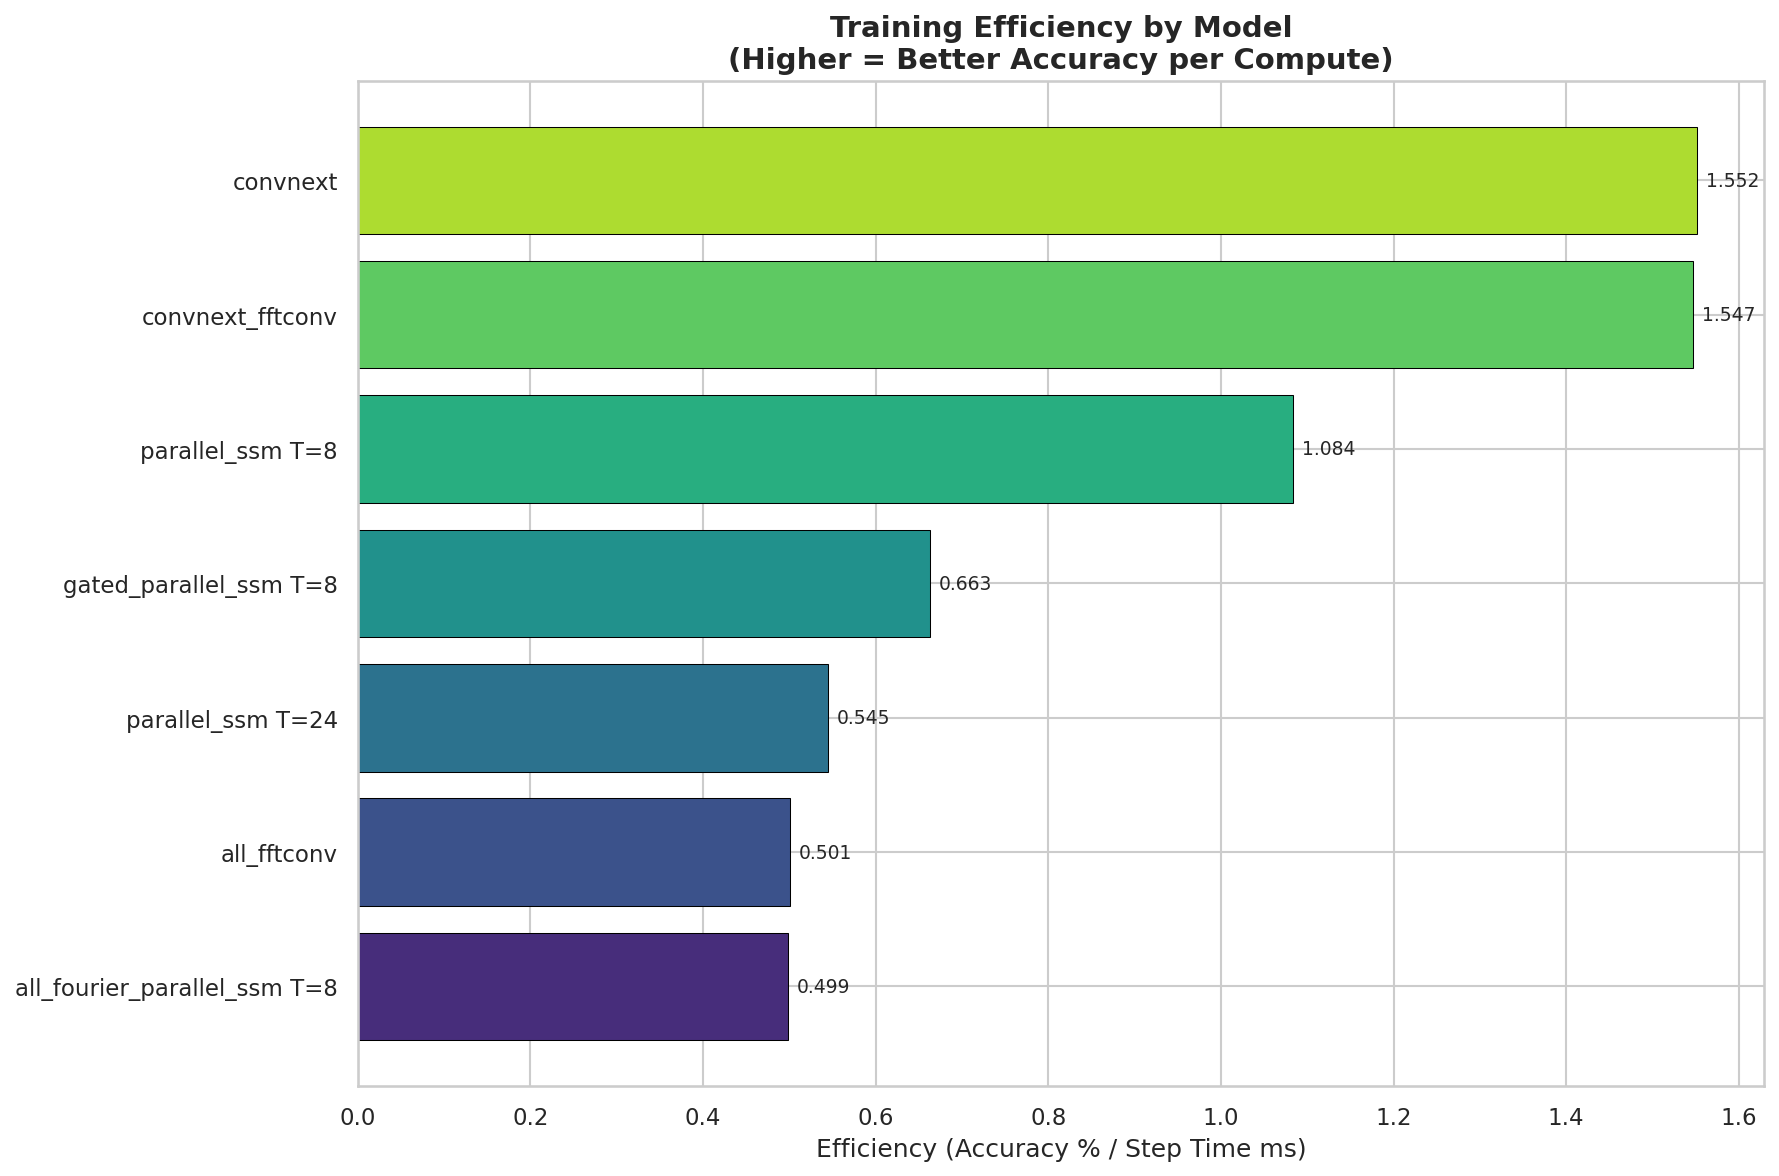
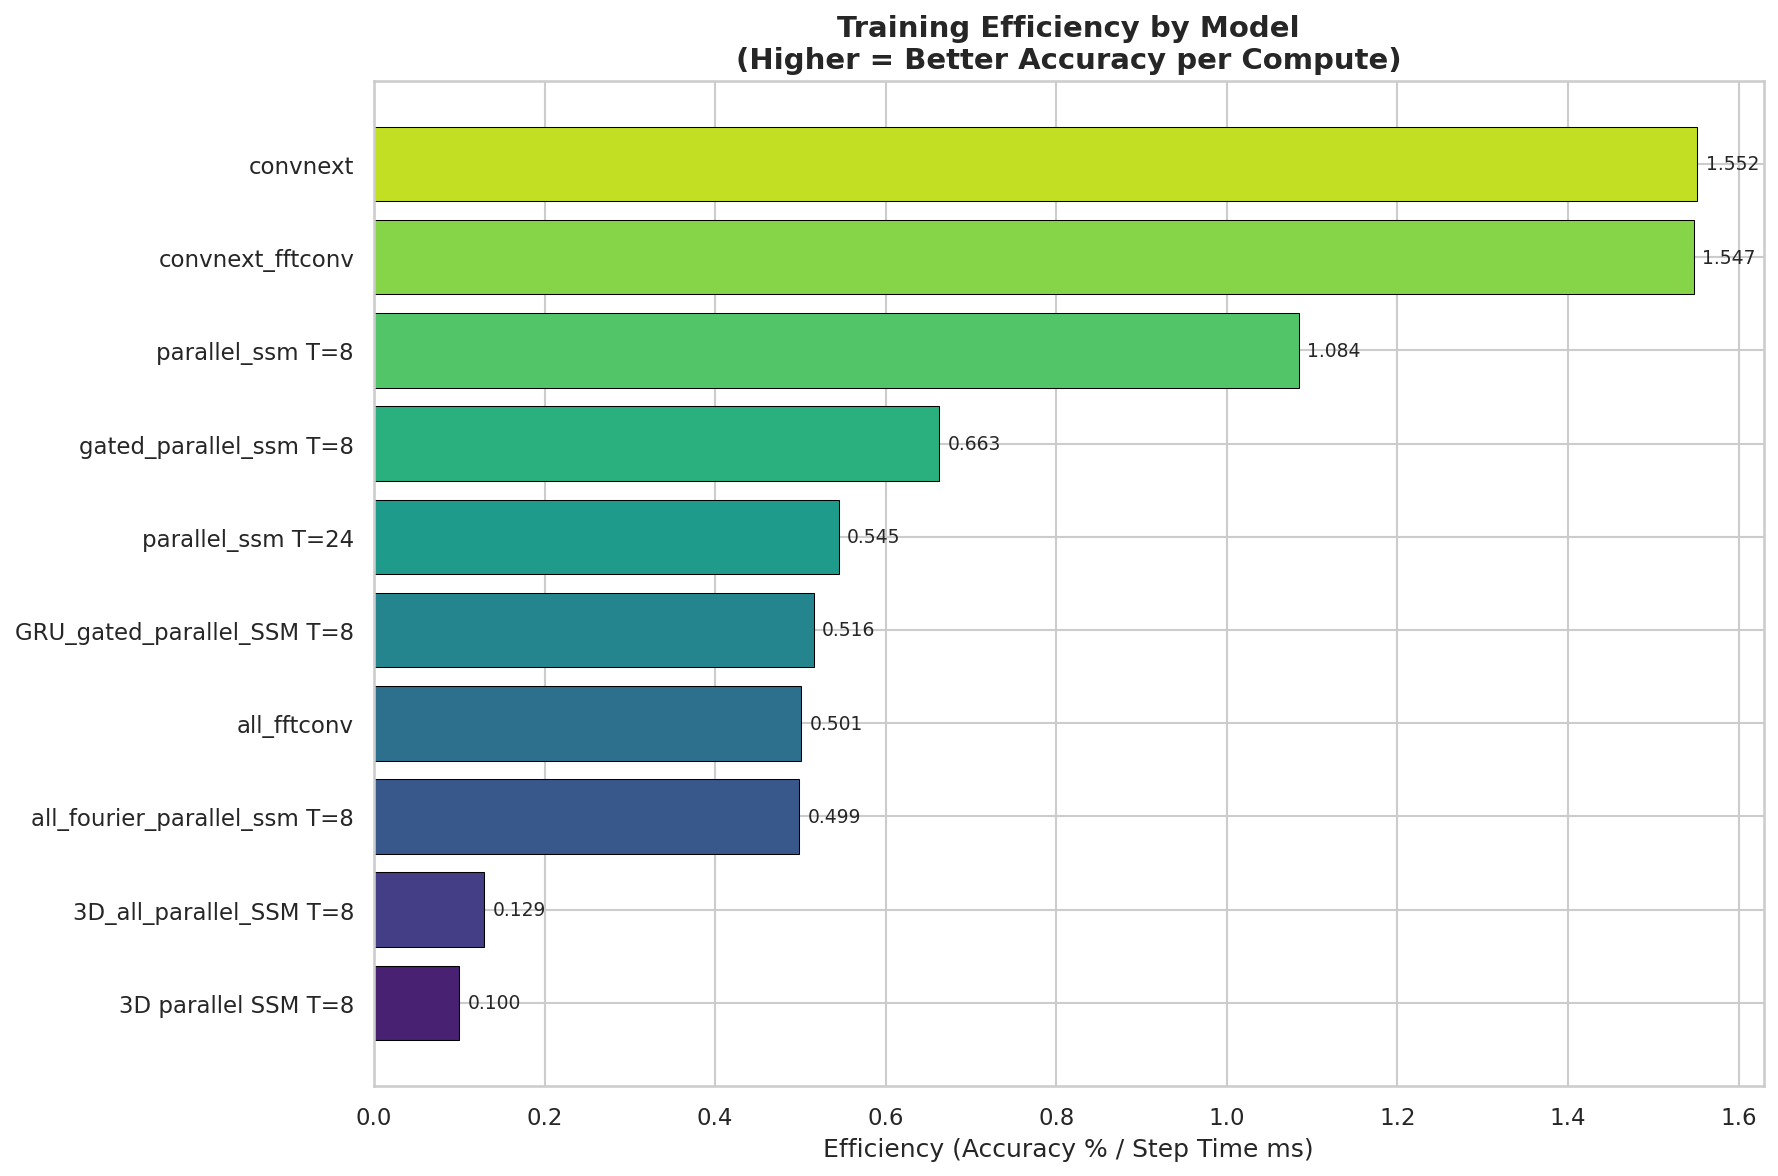
Updated with presentation stuff.

diff --git a/flashfftconv/train_point_tracking.py b/flashfftconv/train_point_tracking.py
@@ -132,17 +132,14 @@ class TAPVidDataset:
         for t in range(T):
             video_resized[t] = cv2.resize(video[t], (new_W, new_H))
 
-        # Scale points
-        scale_x = new_W / W
-        scale_y = new_H / H
-        points_scaled = points.copy()
-        points_scaled[..., 0] *= scale_x  # x
-        points_scaled[..., 1] *= scale_y  # y
+        # TAP-Vid stores points as normalized (0-1), not pixel coordinates!
+        # points[..., 0] is x (normalized), points[..., 1] is y (normalized)
+        points_norm = points.copy()  # Already normalized (0-1)
 
-        # Normalize points to [0, 1]
-        points_norm = points_scaled.copy()
-        points_norm[..., 0] /= new_W
-        points_norm[..., 1] /= new_H
+        # Convert to pixel coordinates in the resized image
+        points_scaled = points.copy()
+        points_scaled[..., 0] *= new_W  # x in pixels
+        points_scaled[..., 1] *= new_H  # y in pixels
 
         # Create query points (sample from first frames where visible)
         query_points = np.zeros((N, 3), dtype=np.float32)  # (t, y, x) normalized
@@ -247,6 +244,39 @@ def ssm_associative_op(left, right):
     return (a_left * a_right, a_right * b_left + b_right)
 
 
+def heinsen_associative_scan_log(log_coeffs: jnp.ndarray, log_values: jnp.ndarray) -> jnp.ndarray:
+    """Heinsen's associative scan in log-space for numerical stability."""
+    def associative_op(left, right):
+        log_a_left, log_b_left = left
+        log_a_right, log_b_right = right
+        new_log_a = log_a_left + log_a_right
+        new_log_b = jnp.logaddexp(log_a_right + log_b_left, log_b_right)
+        return (new_log_a, new_log_b)
+
+    _, log_h = jax.lax.associative_scan(
+        associative_op,
+        (log_coeffs, log_values),
+        axis=0
+    )
+    return log_h
+
+
+def log_space_scan(gate_seq: jnp.ndarray, h_tilde_seq: jnp.ndarray, eps: float = 1e-6) -> jnp.ndarray:
+    """Log-space scan using minGRU formulation with complementary gates.
+
+    Computes h_t = (1-z_t) * h_{t-1} + z_t * h_tilde_t with numerical stability.
+    """
+    k = gate_seq
+    log_z = -jax.nn.softplus(-k)
+    log_coeffs = -jax.nn.softplus(k)
+    h_tilde_positive = jax.nn.softplus(h_tilde_seq)
+    log_h_tilde = jnp.log(h_tilde_positive + eps)
+    log_values = log_z + log_h_tilde
+    log_h = heinsen_associative_scan_log(log_coeffs, log_values)
+    h = jnp.exp(log_h)
+    return h
+
+
 class ParallelConvSSM3D(nn.Module):
     """3D Parallel ConvSSM using associative scan."""
     dim: int
@@ -305,6 +335,72 @@ class ParallelConvSSM3D(nn.Module):
 
         h_final_f = h_all_f[-1]
         h_final = jnp.fft.ifftn(h_final_f, axes=(1, 2, 3)).real
+
+        return h_final
+
+
+class GatedParallelConvSSM3D(nn.Module):
+    """3D Parallel ConvSSM with minGRU-style gating.
+
+    Uses log-space associative scan for numerical stability with
+    input-dependent gates for more expressive temporal modeling.
+    """
+    dim: int
+    iterations: int = 8
+    kernel_size: Tuple[int, int, int] = (3, 7, 7)
+    dtype: jnp.dtype = jnp.float32
+
+    @nn.compact
+    def __call__(self, x: jnp.ndarray) -> jnp.ndarray:
+        B, T, H, W, C = x.shape
+        kt, kh, kw = self.kernel_size
+
+        # Spatial convolution kernel for candidate computation
+        B_kernel = self.param(
+            'B_kernel',
+            nn.initializers.normal(0.02),
+            (C, kt, kh, kw),
+            self.dtype
+        )
+
+        # Prepare FFT-based spatial convolution
+        center_t, center_h, center_w = kt // 2, kh // 2, kw // 2
+        t_idx, h_idx, w_idx = jnp.arange(kt), jnp.arange(kh), jnp.arange(kw)
+        target_t = (t_idx - center_t) % T
+        target_h = (h_idx - center_h) % H
+        target_w = (w_idx - center_w) % W
+        tt, th, tw = jnp.meshgrid(target_t, target_h, target_w, indexing='ij')
+
+        B_padded = jnp.zeros((C, T, H, W), dtype=self.dtype)
+        B_padded = B_padded.at[:, tt, th, tw].set(B_kernel)
+        B_f = jnp.fft.fftn(B_padded, axes=(1, 2, 3))
+        B_f = B_f.transpose(1, 2, 3, 0)[None, ...]
+
+        # Compute candidate hidden state via spatial convolution
+        x_f = jnp.fft.fftn(x, axes=(1, 2, 3))
+        h_tilde_f = B_f * x_f
+        h_tilde = jnp.fft.ifftn(h_tilde_f, axes=(1, 2, 3)).real  # (B, T, H, W, C)
+
+        # Input-dependent gate: project input to gate logits
+        gate_proj = nn.Dense(C, dtype=self.dtype, name='gate_proj')
+        gate_logits = gate_proj(x)  # (B, T, H, W, C)
+
+        # Build iteration sequences for log-space scan
+        # Shape: (iterations, B, T, H, W, C)
+        gate_seq = jnp.broadcast_to(
+            gate_logits[None, ...],
+            (self.iterations, B, T, H, W, C)
+        )
+        h_tilde_seq = jnp.broadcast_to(
+            h_tilde[None, ...],
+            (self.iterations, B, T, H, W, C)
+        )
+
+        # Run minGRU-style log-space scan across iterations
+        h_all = log_space_scan(gate_seq, h_tilde_seq)
+
+        # Take final iteration
+        h_final = h_all[-1]
 
         return h_final
 
@@ -418,6 +514,7 @@ class ConvSSMPointTracker(nn.Module):
     ssm_iterations: int = 8
     kernel_size: Tuple[int, int, int] = (3, 7, 7)
     num_refinement: int = 3
+    use_gated: bool = False  # Use minGRU-style gating
     dtype: jnp.dtype = jnp.float32
 
     @nn.compact
@@ -481,8 +578,9 @@ class ConvSSMPointTracker(nn.Module):
         corr_ssm = nn.Conv(64, (1, 1, 1), dtype=self.dtype)(corr_ssm)
 
         # 3D ConvSSM refinement
+        SSMClass = GatedParallelConvSSM3D if self.use_gated else ParallelConvSSM3D
         for i in range(self.num_refinement):
-            corr_residual = ParallelConvSSM3D(
+            corr_residual = SSMClass(
                 dim=64,
                 iterations=self.ssm_iterations,
                 kernel_size=self.kernel_size,
@@ -793,12 +891,14 @@ def train(args):
             hidden_dim=args.hidden_dim,
         )
     else:
-        print(f"Using ConvSSMPointTracker (ssm_iterations={args.ssm_iterations})")
+        gated_str = "gated " if args.use_gated else ""
+        print(f"Using ConvSSMPointTracker ({gated_str}ssm_iterations={args.ssm_iterations})")
         model = ConvSSMPointTracker(
             hidden_dim=args.hidden_dim,
             ssm_iterations=args.ssm_iterations,
             kernel_size=(args.kernel_t, args.kernel_h, args.kernel_w),
             num_refinement=args.num_refinement,
+            use_gated=args.use_gated,
         )
 
     # Create train state
@@ -955,6 +1055,8 @@ def main():
                         help='Width kernel size')
     parser.add_argument('--num_refinement', type=int, default=3,
                         help='Number of SSM refinement blocks')
+    parser.add_argument('--use_gated', action='store_true',
+                        help='Use minGRU-style gated ConvSSM')
 
     # Training
     parser.add_argument('--epochs', type=int, default=100,
